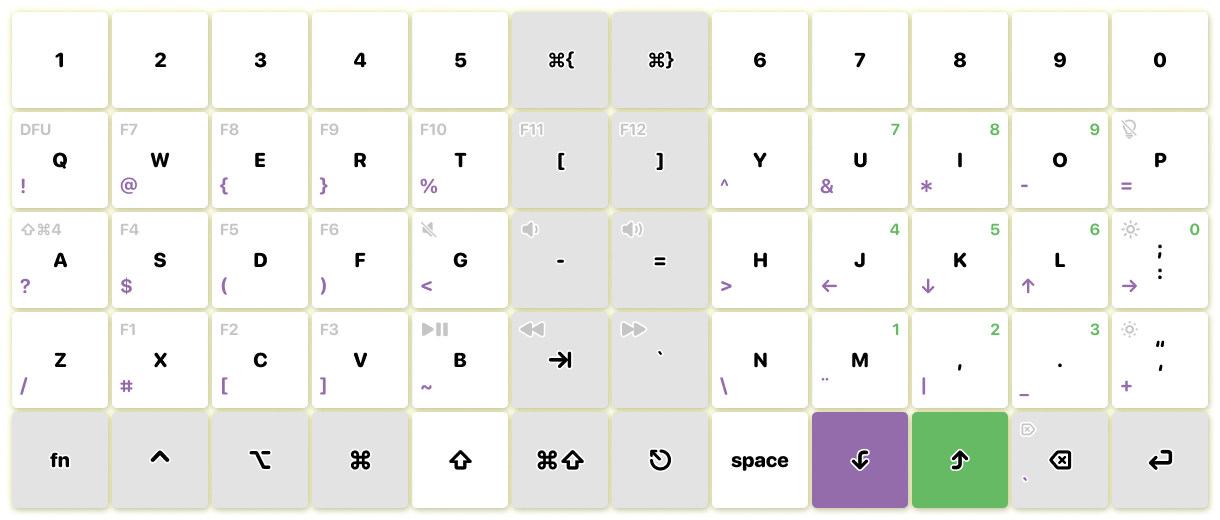
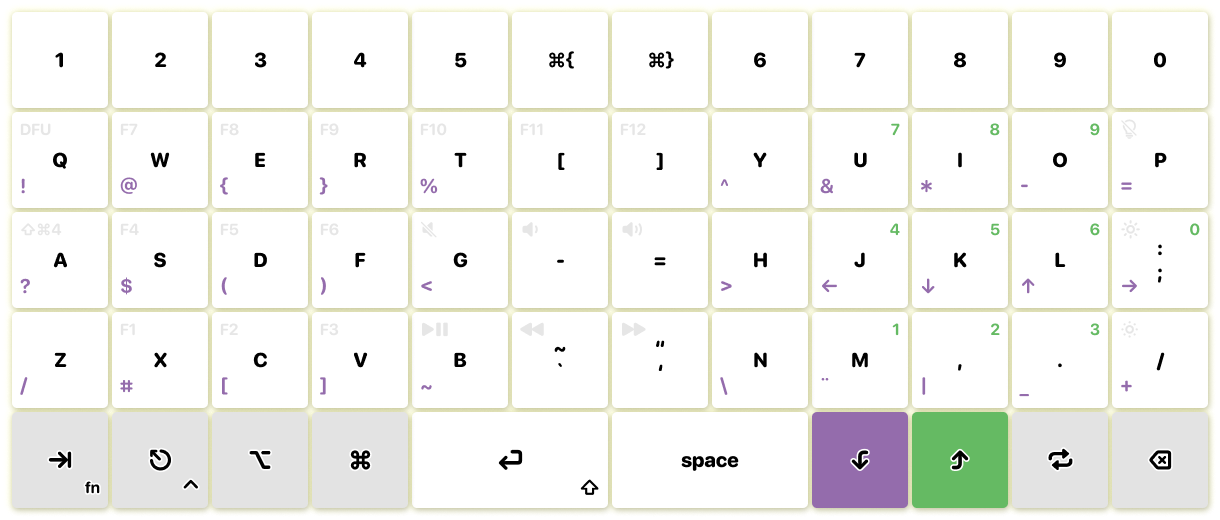
putting brackets on the raise was a mistake, moving them to lower pointers. also almost everything is available on the base now

diff --git a/planck/keymap.c b/planck/keymap.c
@@ -23,7 +23,7 @@ enum planck_layers {
 #define RAISE MO(_RAISE)
 #define LOWER_T TG(_LOWER)
 #define RAISE_T TG(_RAISE)
-#define LFT_RSE LT(_RAISE, KC_LEFT)
+#define ENT_RSE LT(_RAISE, KC_ENT)
 
 #define T_QWERT DF(_QWERTY)
 #define T_COLEM DF(_COLEMAK_DH)
@@ -43,10 +43,18 @@ enum planck_layers {
 #define OPT_TAB MT(MOD_LALT, KC_TAB)  // Tab on tap, Option on hold
 #define CTL_ESC MT(MOD_LCTL, KC_ESC)  // Esc on tap, Ctrl on hold
 #define OPT_ESC MT(MOD_LALT, KC_ESC)  // Tab on tap, Option on hold
-#define CTL_TAB MT(MOD_LCTL, KC_TAB)  // Esc on tap, Ctrl on hold
+#define CTL_TAB MT(MOD_LCTL, KC_TAB)  // Esc on tap,  Ctrl on hold
 #define SHT_SPC MT(MOD_LSFT, KC_SPC)  // Space on tap, Shift on hold
 #define SHT_ENT MT(MOD_LSFT, KC_ENT)  // Enter on tap, Shift on hold
 #define SHT_ENT MT(MOD_LSFT, KC_ENT)  // Enter on tap, Shift on hold
+
+
+// Helper combos to use layer as option key
+#define OP_LEFT LALT(KC_LEFT) // Opt + left
+#define OP_RGHT LALT(KC_RGHT) // Opt + right
+#define OP_UP   LALT(KC_UP)   // Opt + up
+#define OP_DOWN LALT(KC_DOWN) // Opt + down
+
 
 const uint16_t PROGMEM keymaps[][MATRIX_ROWS][MATRIX_COLS] = {
 
@@ -65,7 +73,7 @@ const uint16_t PROGMEM keymaps[][MATRIX_ROWS][MATRIX_COLS] = {
     OPT_ESC, KC_Q,    KC_W,    KC_E,    KC_R,    KC_T,    KC_Y,    KC_U,    KC_I,    KC_O,    KC_P,    KC_BSPC,
     CTL_TAB, KC_A,    KC_S,    KC_D,    KC_F,    KC_G,    KC_H,    KC_J,    KC_K,    KC_L,    KC_SCLN, KC_QUOT,
     SHT_GRV, KC_Z,    KC_X,    KC_C,    KC_V,    KC_B,    KC_N,    KC_M,    KC_COMM, KC_DOT,  KC_LBRC, KC_RBRC,
-    FN,      KC_LCTL, KC_LALT, RAISE,   KC_LGUI, KC_LSFT, KC_SPC,  LOWER,   KC_ENT,  KC_BSPC, LANG_SW, KC_CAPS
+    FN,      KC_LCTL, KC_LALT, RAISE,   KC_LGUI, KC_LSFT, KC_SPC,  LOWER,   ENT_RSE, KC_BSPC, LANG_SW, KC_CAPS
 ),
 
 /* Colemak DH 
@@ -76,51 +84,49 @@ const uint16_t PROGMEM keymaps[][MATRIX_ROWS][MATRIX_COLS] = {
  * |-------+-------+-------+-------+-------+-------+-------+-------+-------+-------+-------+-------|
  * | shift |   Z   |   X   |   C   |   D   |   V   |   K   |   H   |   ,   |   .   |   ↲   |  lng  |
  * |-------+-------+-------+-------+-------+-------+-------+-------+-------+-------+-------+-------|
- * |  FN   |   ↲   |   ⌃   |   ⌥   |   ⌘   |   ⇧   | space |   ↙   | ↗ /←  |   ↓   |   ↑   |   →   |
+ * |  FN   |   ⌃   |   ⌥   |   ↗   |   ⌘   |   ⇧   | space |   ↙   |   ↲   | bksps |  lng  | caps  |
  * `-----------------------------------------------------------------------------------------------'
  */
 [_COLEMAK_DH] = LAYOUT_planck_grid(
     OPT_ESC, KC_Q,    KC_W,    KC_F,    KC_P,    KC_B,    KC_J,    KC_L,    KC_U,    KC_Y,    KC_SCLN, KC_BSPC,
     CTL_TAB, KC_A,    KC_R,    KC_S,    KC_T,    KC_G,    KC_M,    KC_N,    KC_E,    KC_I,    KC_O,    KC_QUOT,
-    SHT_GRV, KC_Z,    KC_X,    KC_C,    KC_D,    KC_V,    KC_K,    KC_H,    KC_COMM, KC_DOT,  KC_ENT,  LANG_SW,
-    FN,      KC_ENT,  KC_LCTL, KC_LALT, KC_LGUI, KC_LSFT, KC_SPC,  LOWER,   LFT_RSE, KC_DOWN, KC_UP,   KC_RGHT
+    SHT_GRV, KC_Z,    KC_X,    KC_C,    KC_D,    KC_V,    KC_K,    KC_H,    KC_COMM, KC_DOT,  KC_LBRC, KC_RBRC,
+    FN,      KC_LCTL, KC_LALT, RAISE,   KC_LGUI, KC_LSFT, KC_SPC,  LOWER,   ENT_RSE, KC_BSPC, LANG_SW, KC_CAPS
 ),
 
 /* Lower
  * ,-----------------------------------------------------------------------------------------------.
- * | TRNS  |   ~   |   &   |   *   |   |   |       |       |   _   |   +   |   -   |   =   | TRNS  |
+ * | TRNS  |   ~   |   |   |   *   |   &   |   <   |   >   |   _   |   +   |   -   |   =   | TRNS  |
  * |-------+-------+-------+-------+-------+-------+-------+-------+-------+-------+-------+-------|
- * | TRNS  |   ?   |   !   |   @   |   #   |       |       |   ←   |   ↓   |   ↑   |   →   |   `   |
+ * | TRNS  |   ?   |   #   |   @   |   !   |   (   |   )   |   ←   |   ↓   |   ↑   |   →   |   `   |
  * |-------+-------+-------+-------+-------+-------+-------+-------+-------+-------+-------+-------|
- * | TRNS  |   /   |   $   |   %   |   ^   |       |       |  ¨    |       |       |   \   |       |
+ * | TRNS  |   /   |   ^   |   %   |   $   |   {   |   }   |  ¨    |       |       |   \   |       |
  * |-------+-------+-------+-------+-------+-------+-------+-------+-------+-------+-------+-------|
  * | TRNS  | TRNS  | TRNS  | TRNS  | TRNS  | TRNS  | TRNS  | TRNS  | TRNS  | TRNS  | TRNS  | TRNS  |
  * `-----------------------------------------------------------------------------------------------'
  */
 [_LOWER] = LAYOUT_planck_grid(
-    _______, KC_TILD, KC_AMPR, KC_ASTR, KC_PIPE, XXXXXXX, XXXXXXX, KC_UNDS, KC_PLUS, KC_MINS, KC_EQL,  _______,
-    _______, KC_QUES, KC_EXLM, KC_AT,   KC_HASH, XXXXXXX, XXXXXXX, KC_LEFT, KC_DOWN, KC_UP,   KC_RGHT, KC_GRV,
-    _______, KC_SLSH, KC_DLR,  KC_PERC, KC_CIRC, XXXXXXX, XXXXXXX, UMLAUT,  XXXXXXX, XXXXXXX, KC_BSLS, XXXXXXX,
+    _______, KC_TILD, KC_PIPE, KC_ASTR, KC_AMPR, KC_LT,   KC_GT,   KC_UNDS, KC_PLUS, KC_MINS, KC_EQL,  _______,
+    _______, KC_QUES, KC_HASH, KC_AT,   KC_EXLM, KC_LPRN, KC_RPRN, KC_LEFT, KC_DOWN, KC_UP,   KC_RGHT, KC_GRV,
+    _______, KC_SLSH, KC_CIRC, KC_PERC, KC_DLR,  KC_LCBR, KC_RCBR, UMLAUT,  XXXXXXX, XXXXXXX, KC_BSLS, XXXXXXX,
     _______, _______, _______, _______, _______, _______, _______, _______, _______, _______, _______, _______
 ),
 
-
-
 /* Raise
  * ,-----------------------------------------------------------------------------------------------.
- * | TRNS  | bksps |   7   |   8   |   9   |       |       |   (   |   )   |   <   |   >   | TRNS  |
+ * | TRNS  | bksps |   9   |   8   |   7   |       |       |       |       |       |       | TRNS  |
  * |-------+-------+-------+-------+-------+-------+-------+-------+-------+-------+-------+-------|
- * | TRNS  |   0   |   1   |   2   |   3   |       |       |   {   |   }   |   [   |   ]   |       |
+ * | TRNS  |   0   |   3   |   2   |   1   | space |       |  ⌥ ←  |  ⌥ ↓  |  ⌥ ↑  |  ⌥ →  |       |
  * |-------+-------+-------+-------+-------+-------+-------+-------+-------+-------+-------+-------|
- * | TRNS  |   ↲   |   4   |   5   |   6   |       |       |       |       |       |       |       |
+ * | TRNS  |   ↲   |   6   |   5   |   4   |       |       |       |       |       |       |       |
  * |-------+-------+-------+-------+-------+-------+-------+-------+-------+-------+-------+-------|
  * | TRNS  | TRNS  | TRNS  | TRNS  | TRNS  | TRNS  | TRNS  | TRNS  | TRNS  | TRNS  | TRNS  | TRNS  |
  * `-----------------------------------------------------------------------------------------------'
   */
 [_RAISE] = LAYOUT_planck_grid(
-    _______, KC_BSPC, KC_7,    KC_8,    KC_9,    XXXXXXX, XXXXXXX, KC_LPRN, KC_RPRN, KC_LT,   KC_GT,   _______,
-    _______, KC_0,    KC_1,    KC_2,    KC_3,    XXXXXXX, XXXXXXX, KC_LCBR, KC_RCBR, KC_LBRC, KC_RBRC, XXXXXXX,
-    _______, KC_ENT,  KC_4,    KC_5,    KC_6,    XXXXXXX, XXXXXXX, XXXXXXX, XXXXXXX, XXXXXXX, XXXXXXX, XXXXXXX,
+    _______, KC_BSPC, KC_9,    KC_8,    KC_7,    XXXXXXX, XXXXXXX, XXXXXXX, XXXXXXX, XXXXXXX, XXXXXXX,   _______,
+    _______, KC_0,    KC_3,    KC_2,    KC_1,    KC_SPC,  XXXXXXX, OP_LEFT, OP_DOWN, OP_UP,   OP_RGHT, XXXXXXX,
+    _______, KC_ENT,  KC_6,    KC_5,    KC_4,    XXXXXXX, XXXXXXX, XXXXXXX, XXXXXXX, XXXXXXX, XXXXXXX, XXXXXXX,
     _______, _______, _______, _______, _______, _______, _______, _______, _______, _______, _______, _______
 ),
 
@@ -128,17 +134,17 @@ const uint16_t PROGMEM keymaps[][MATRIX_ROWS][MATRIX_COLS] = {
  * ,-----------------------------------------------------------------------------------------------.
  * | reset |  F11  |  F7   |  F8   |  F9   |       |       |       |       |       |       |  del  |
  * |-------+-------+-------+-------+-------+-------+-------+-------+-------+-------+-------+-------|
- * | TRNS  |  F10  |  F1   |  F2   |  F3   |       |       |       |       | led   | brgh- | brgh+ |
+ * | qwert |  F10  |  F1   |  F2   |  F3   |       |       |       |       | led   | brgh- | brgh+ |
  * |-------+-------+-------+-------+-------+-------+-------+-------+-------+-------+-------+-------|
- * | TRNS  |  ⇧⌘4  |  F4   |  F5   |  F6   |       |       |       |       | vol-  | mute  | vol+  |
+ * | colem |  ⇧⌘4  |  F4   |  F5   |  F6   |       |       |       |       | vol-  | mute  | vol+  |
  * |-------+-------+-------+-------+-------+-------+-------+-------+-------+-------+-------+-------|
  * | TRNS  | TRNS  | TRNS  |raiseTG| TRNS  | TRNS  | TRNS  |lowerTG| TRNS  | prev  | pause | next  |
  * `-----------------------------------------------------------------------------------------------'
  */
 [_FN] = LAYOUT_planck_grid(
     RESET,   KC_F11,  KC_F7,   KC_F8,   KC_F9,   XXXXXXX, XXXXXXX, XXXXXXX, XXXXXXX, XXXXXXX, XXXXXXX, KC_DEL,
-    _______, KC_F10,  KC_F1,   KC_F2,   KC_F3,   XXXXXXX, XXXXXXX, XXXXXXX, XXXXXXX, RGB_TOG, KC_BRID, KC_BRIU,
-    _______, CMD_S_4, KC_F4,   KC_F5,   KC_F6,   XXXXXXX, XXXXXXX, XXXXXXX, XXXXXXX, KC_VOLD, KC_MUTE, KC_VOLU,
+    T_QWERT, KC_F10,  KC_F1,   KC_F2,   KC_F3,   XXXXXXX, XXXXXXX, XXXXXXX, XXXXXXX, RGB_TOG, KC_BRID, KC_BRIU,
+    T_COLEM, CMD_S_4, KC_F4,   KC_F5,   KC_F6,   XXXXXXX, XXXXXXX, XXXXXXX, XXXXXXX, KC_VOLD, KC_MUTE, KC_VOLU,
     _______, _______, _______, RAISE_T, _______, _______, _______, LOWER_T, _______, KC_MPRV, KC_MPLY, KC_MNXT
 )
 

diff --git a/README.md b/README.md
@@ -29,12 +29,11 @@ My layouts for Planck, Preonic and Drop Alt
 - Symbols are needed more frequently than number, so they take same most accessible layer with right thumb
 - Numbers to be typed with one hand, so layer key is also on the left for number layer
   - Home row for most used numbers: 0, 1, 2, 3
+  - Trying a reverse layout, since for some reason it made more sense somehow
 - Don't do any tap-dance or double-function to thumb keys
 - Bonus point: have a dedicated key for switching language
-
-- Preonic is just extended Planck for smoother learning curve and more confidence with typing passwords
-  - do not put anything essential on the top row
-  - do not rely on muscle memory for the top row
+- Preonic is for experimental ideas
+  - do not put anything essential on the top row, so the whole layout could be ported back to planck
 
 ### Learning curve
 
@@ -45,7 +44,7 @@ the classic arrows on the bottom-right for backup and used the mostly when the r
 keyboard. Slowly I developed the muscle memory for the home row arrows, which freed up one easily-accessible
 key for the pinkey, where the up previously was. That turned to be the ideal place for the `enter`, as 
 stretching little finger to the right, where the default is apparently too tiring for my hand.
-Later I found an even better place for it when I moved the raise layer to the left thumb. That allowed me to place `[` and `]` there, which is used for `х` and `ъ` in Russian layout.
+Later I found an even better place for it when I moved the raise layer to the left thumb. That allowed me to place `[` and `]` there, which is used for `х` (ha) and `ъ` in Russian layout.
 
 ### Planck
 
